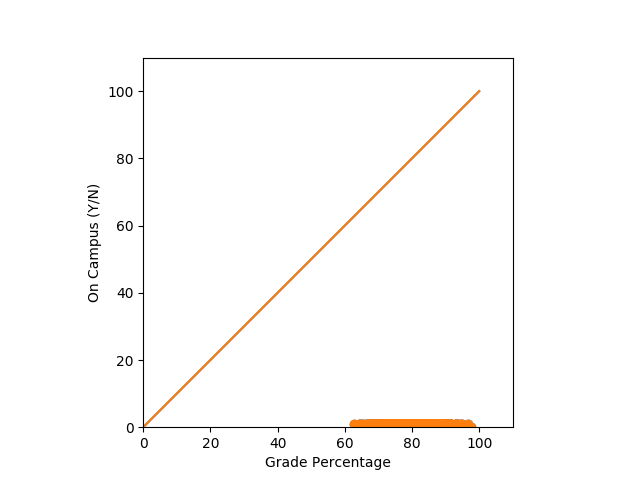
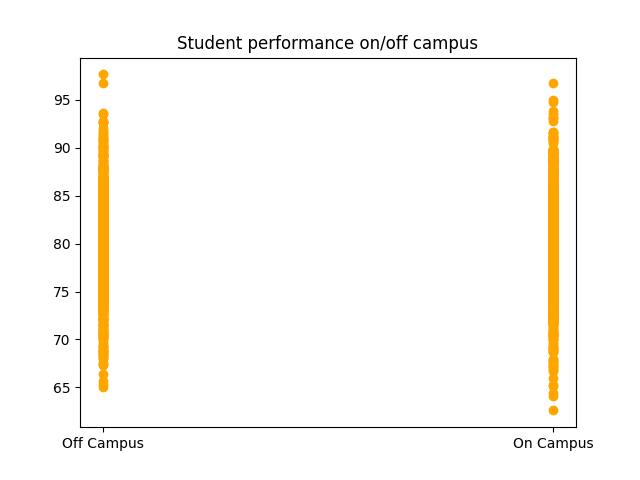
More progress on graphing

diff --git a/templates/account_home.html b/templates/account_home.html
@@ -150,7 +150,7 @@ Demo App
     <div id="Paris" class="tabcontent">
         <h3>Course Report</h3>
         <p>It will generate student past performances report in the past under specific course</p>
-        <form id="course_report_form" action="javascript:fun_image();">
+        <form id="course_report_form" action="javascript:fun_images('/course_report', '#course_report_form', '#course_img');">
                 Course ID: <input type="text" name="course_id"><br>
             <input class="btn btn-primary" type="submit" value="submit">
         </form>
@@ -159,7 +159,7 @@ Demo App
     <div id="Tokyo" class="tabcontent">
         <h3>Instructor Report</h3>
         <p>It will generate student past performances report in the past under specific instructor</p>
-        <form method="post" action="/instructor_report">
+        <form id="instructor_report_form" action="javascript:fun_images('/instructor_report', '#instructor_report_form', '#course_img');">
                 Instructor ID: <input type="text" name="instructor_id"><br>
             <input class="btn btn-primary" type="submit" value="submit">
         </form>
@@ -186,7 +186,7 @@ Demo App
         <p id="fun"></p>
     </div>
     <div class="course_report">
-        <img id="course_img" src="null">
+        <img id="course_img">
     </div>
 
 </div>
@@ -239,18 +239,17 @@ Demo App
         }
     }
 
-    function fun_image(){
+    function fun_images(post_path, form, out){
         $.ajax({
-            url: '/course_report', // url where to submit the request
+            url: post_path, // url where to submit the request
             type : "POST", // type of action POST || GET
             dataType : 'json', // data type
-            data : $("#course_report_form").serialize(), // post data || get data
+            data : $(form).serialize(), // post data || get data
             success : function(response) {
-                $('#course_img').attr("src", response['text']);
+                $(out).attr("src", response['text']);
             }
         })
     }
-
 
 </script>
 {% endblock %}

diff --git a/application.py b/application.py
@@ -130,8 +130,29 @@ def course_report():
         is_working_arr.append(student[8])
         gpa_arr.append(student[9])
         institution_arr.append(student[11])
-    grapher.plot_student_grades_vs_on_campus(grade_percentage_arr, on_campus_arr)
+    grapher.plot_student_grades_vs_on_campus('On Campus (Y/N)', 'Grade Percentage', grade_percentage_arr, on_campus_arr,
+                                             'static/course_report.png')
     return jsonify({'text': '../static/course_report.png'})
+
+
+@application.route('/instructor_report', methods=['POST'])
+def instructor_report():
+    instructor_id = int(request.form.get('instructor_id'))
+    data = sql.get_student_info_by_instructor_id(instructor_id)
+    grade_percentage_arr = []
+    on_campus_arr = []
+    is_working_arr = []
+    gpa_arr = []
+    institution_arr = []
+    for student in data:
+        grade_percentage_arr.append(student[0])
+        gpa_arr.append(student[1])
+        is_working_arr.append(student[2])
+        on_campus_arr.append(student[3])
+        institution_arr.append(student[4])
+    grapher.plot_student_grades_vs_on_campus('On Campus (Y/N)', 'Grade Percentage', grade_percentage_arr, on_campus_arr,
+                                             'static/instructor_report.png')
+    return jsonify({'text': '../static/instructor_report.png'})
 
 
 @application.route('/send', methods=['POST'])

diff --git a/grapher.py b/grapher.py
@@ -1,13 +1,13 @@
 import matplotlib.pyplot as plt
 
 
-def plot_student_grades_vs_on_campus(grade_percentage_arr, on_campus_arr):
-    plt.scatter(grade_percentage_arr, on_campus_arr)
-    plt.xlabel('Grade Percentage')
-    plt.ylabel('On Campus (Y/N)')
-    plt.axis('equal')
-    plt.axis('square')
-    plt.xlim([0, plt.xlim()[1]])
-    plt.ylim([0, plt.ylim()[1]])
-    _ = plt.plot([-100, 100], [-100, 100])
-    plt.savefig('static/course_report.png')
+def plot_student_grades_vs_on_campus(x_label, y_label, grade_percentage_arr, on_campus_arr, dest):
+    x = on_campus_arr
+    y = grade_percentage_arr
+    plt.plot(x, y, 'o', color='orange')
+    plt.xlabel = x_label
+    plt.ylabel = y_label
+    plt.xticks(ticks=[0, 1], labels=['Off Campus', 'On Campus'])
+
+    plt.title("Student performance off/on campus")
+    plt.savefig(dest)

diff --git a/sql_scripts.py b/sql_scripts.py
@@ -117,3 +117,14 @@ class SQL:
             SET FirstName= '{}', LastName = '{}', OnCampus= {},IsWorking={}, GPA={}
             Where Email = '{}';
         '''.format(firstname, lastname, oncampus, isworking, gpa, email))
+
+    def get_student_info_by_instructor_id(self, instructor_id):
+        self.my_cursor.execute('''
+            SELECT CS.GradePercentage, S.GPA, S.IsWorking, S.OnCampus, S.InstitutionId
+            FROM Instructor I
+            JOIN CourseInstructor CI on CI.InstructorId = I.InstructorId
+            JOIN CourseStudent CS on CS.CourseId = CI.CourseId
+            JOIN Student S on S.StudentId = CS.StudentId
+            WHERE I.InstructorId = {}
+                '''.format(instructor_id))
+        return self.my_cursor.fetchall()
